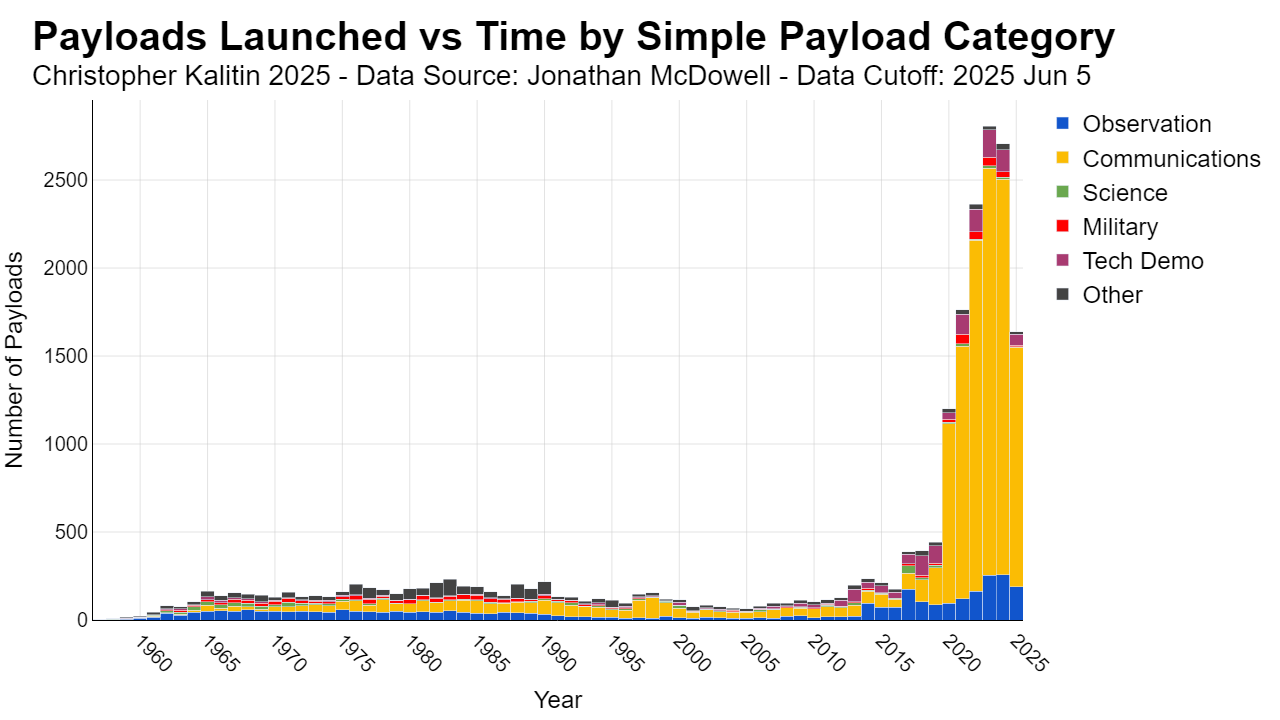
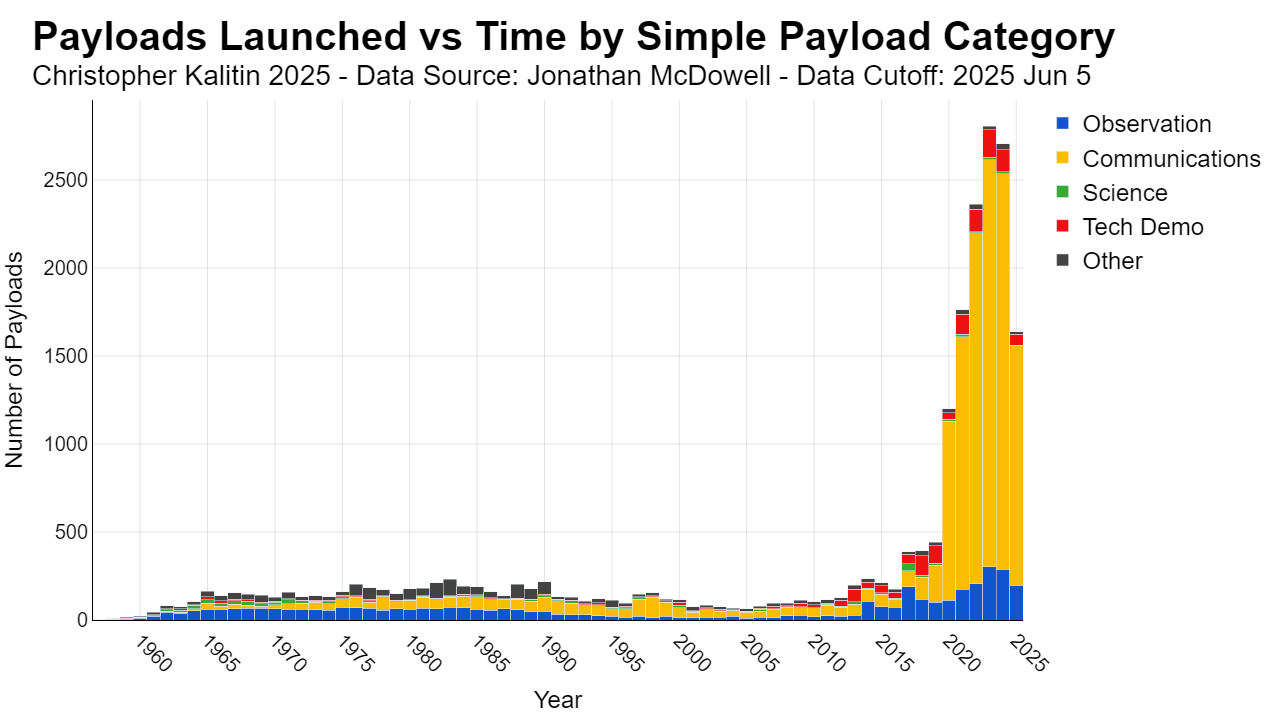
Remove military payload category

diff --git a/src/translations.py b/src/translations.py
@@ -76,11 +76,11 @@ class Translation:
         "GEOD": "Science",
         "MGRAV": "Science",
         "SCI": "Science",
-        "EW": "Military", # Early warning: Obs?
-        "SIG": "Military", # Signals intelligence: Obs?
-        "TARG": "Military", # Target for missile defense tests: Other?
-        "WEAPON": "Military", # Antisat: Other?
-        "TECH": "Tech Demo",
+        "TECH": "Tech Demo", # I want this above other category, technically out of order
+        "EW": "Observation", # Early warning: Obs?
+        "SIG": "Observation", # Signals intelligence: Obs?
+        "TARG": "Other", # Target for missile defense tests: Other?
+        "WEAPON": "Other", # Antisat: Other?
         "CAL": "Other",
         "EDU": "Other",
         "INF": "Other",

diff --git a/src/chart_utils.py b/src/chart_utils.py
@@ -39,9 +39,8 @@ class ChartUtils:
     simple_payload_category_color_map = {
         'Observation': "#1155cc",
         'Communications': "#fbbc04",
-        'Science': "#6aa84f",
-        'Military': "#ff0000",
-        'Tech Demo': "#a83b71",
+        'Science': "#3ba735",
+        'Tech Demo': "#ee1111",
         'Other': "#434343",
     }
     
